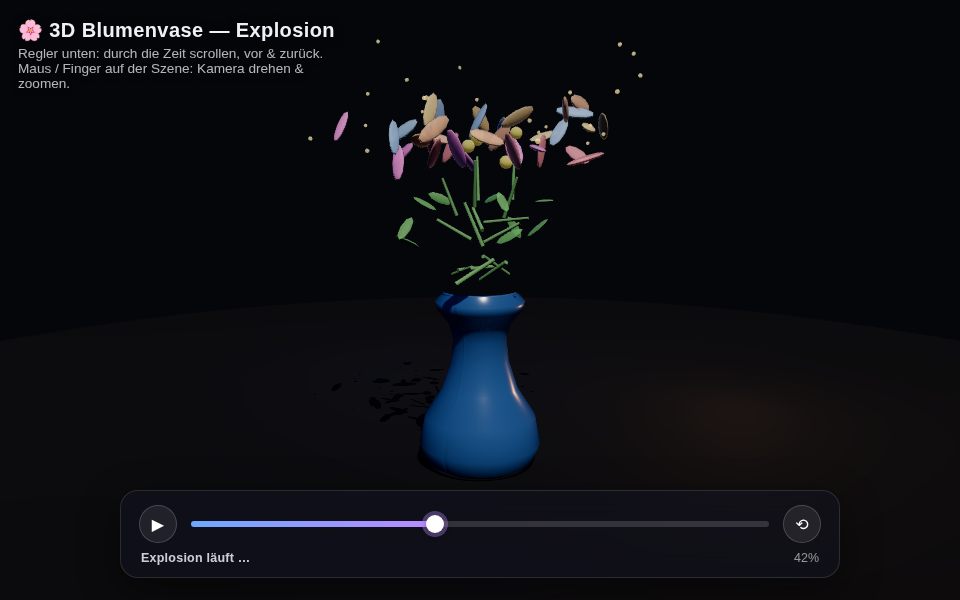
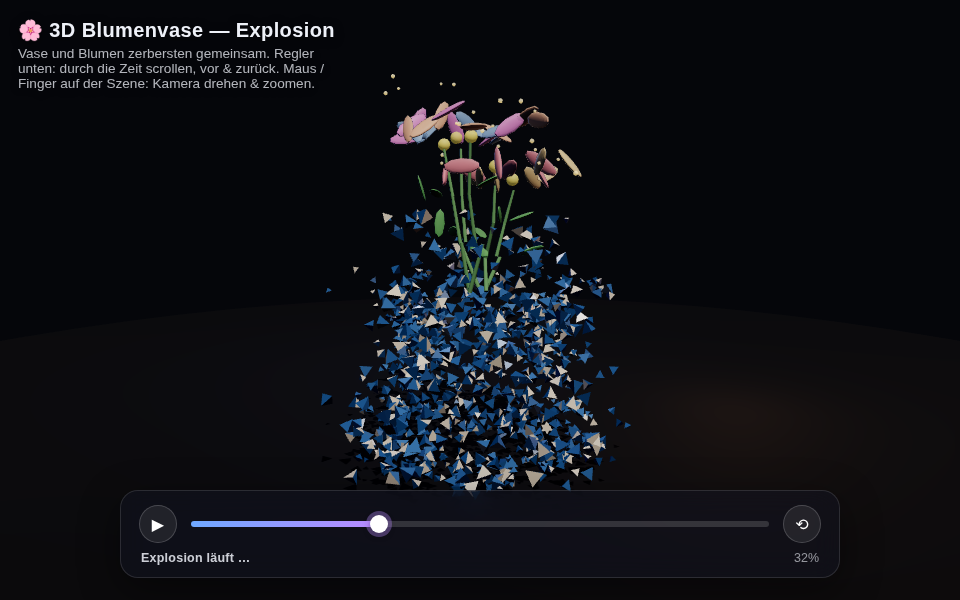
flower-vase: shatter the vase itself into ~1000 shards
The vase now explodes along with its content instead of staying
intact. It's rebuilt as an InstancedMesh of ~1000 tetrahedron shards
sampled across the lathe surface (two-tone: cream inner ceramic /
blue glaze outer faces), each with its own outward explosion
direction, spin and gravity arc driven by the same deterministic
time parameter as the flower fragments. The smooth vase mesh
crossfades into the shard cloud over the first ~8% of the timeline,
so scrubbing back still reassembles a pristine vase. Updated the
landing-page thumbnail to show the vase shattering too.

diff --git a/flower-vase/index.html b/flower-vase/index.html
@@ -98,7 +98,7 @@
 
 <div id="hud">
   <h1>🌸 3D Blumenvase — Explosion</h1>
-  <p>Regler unten: durch die Zeit scrollen, vor &amp; zurück. Maus / Finger auf der Szene: Kamera drehen &amp; zoomen.</p>
+  <p>Vase und Blumen zerbersten gemeinsam. Regler unten: durch die Zeit scrollen, vor &amp; zurück. Maus / Finger auf der Szene: Kamera drehen &amp; zoomen.</p>
 </div>
 
 <div id="loading">Lade Szene …</div>
@@ -225,6 +225,7 @@ const vaseMat = new THREE.MeshPhysicalMaterial({
   clearcoat: 0.8,
   clearcoatRoughness: 0.15,
   reflectivity: 0.5,
+  transparent: true,
 });
 const vase = new THREE.Mesh(vaseGeo, vaseMat);
 vase.castShadow = true;
@@ -232,16 +233,119 @@ vase.receiveShadow = true;
 scene.add(vase);
 
 // water surface just below the rim
-const water = new THREE.Mesh(
-  new THREE.CircleGeometry(0.24, 32),
-  new THREE.MeshPhysicalMaterial({
-    color: 0x1c3a55, roughness: 0.05, metalness: 0,
-    transmission: 0.85, thickness: 0.3, transparent: true, opacity: 0.9,
-  })
-);
+const waterMat = new THREE.MeshPhysicalMaterial({
+  color: 0x1c3a55, roughness: 0.05, metalness: 0,
+  transmission: 0.85, thickness: 0.3, transparent: true, opacity: 0.9,
+});
+const water = new THREE.Mesh(new THREE.CircleGeometry(0.24, 32), waterMat);
 water.rotation.x = -Math.PI / 2;
 water.position.y = VASE_TOP_Y - 0.12;
 scene.add(water);
+
+// ---------- vase shard system (the vase itself shatters into ~1000 pieces) ----------
+const SHARD_COUNT = 1000;
+
+const segLengths = [];
+let totalProfileLen = 0;
+for (let i = 0; i < profile.length - 1; i++) {
+  const l = profile[i].distanceTo(profile[i + 1]);
+  segLengths.push(l);
+  totalProfileLen += l;
+}
+function pickProfileSegment() {
+  let r = Math.random() * totalProfileLen;
+  for (let i = 0; i < segLengths.length; i++) {
+    if (r < segLengths[i]) return i;
+    r -= segLengths[i];
+  }
+  return segLengths.length - 1;
+}
+
+function vaseSurfaceSample() {
+  const k = pickProfileSegment();
+  const p0 = profile[k], p1 = profile[k + 1];
+  const v = Math.random();
+  const radius = lerp(p0.x, p1.x, v);
+  const y = lerp(p0.y, p1.y, v);
+  const theta = Math.random() * Math.PI * 2;
+
+  const dx = p1.x - p0.x, dy = p1.y - p0.y;
+  let nx = dy, ny = -dx;
+  const nLen = Math.hypot(nx, ny) || 1;
+  nx /= nLen; ny /= nLen;
+  const isFlatBottom = Math.abs(dy) < 1e-5 && p0.y < 0.01;
+  if (isFlatBottom) { nx = 0; ny = -1; }
+  else if (nx < 0) { nx = -nx; ny = -ny; }
+
+  const pos = new THREE.Vector3(radius * Math.cos(theta), y, radius * Math.sin(theta));
+  const normal = new THREE.Vector3(nx * Math.cos(theta), ny, nx * Math.sin(theta)).normalize();
+  const tangent = new THREE.Vector3(-Math.sin(theta), 0, Math.cos(theta));
+  return { pos, normal, tangent };
+}
+
+const shardGeo = new THREE.TetrahedronGeometry(0.045, 0).toNonIndexed();
+{
+  const colors = [];
+  const faceColors = [
+    new THREE.Color(0xf3e6cf), // inner ceramic
+    new THREE.Color(0x3a6ea8),
+    new THREE.Color(0x477fbd),
+    new THREE.Color(0x2e5a8c),
+  ];
+  const posAttr = shardGeo.getAttribute("position");
+  const faceCount = posAttr.count / 3;
+  for (let f = 0; f < faceCount; f++) {
+    const c = faceColors[f % faceColors.length];
+    for (let v = 0; v < 3; v++) colors.push(c.r, c.g, c.b);
+  }
+  shardGeo.setAttribute("color", new THREE.Float32BufferAttribute(colors, 3));
+}
+
+const shardMat = new THREE.MeshStandardMaterial({
+  vertexColors: true, roughness: 0.3, metalness: 0.05, transparent: true, opacity: 0,
+});
+const shardMesh = new THREE.InstancedMesh(shardGeo, shardMat, SHARD_COUNT);
+shardMesh.castShadow = true;
+shardMesh.instanceMatrix.setUsage(THREE.DynamicDrawUsage);
+shardMesh.frustumCulled = false;
+shardMesh.instanceColor = new THREE.InstancedBufferAttribute(new Float32Array(SHARD_COUNT * 3), 3);
+scene.add(shardMesh);
+
+const shards = [];
+const shardTmpColor = new THREE.Color();
+for (let i = 0; i < SHARD_COUNT; i++) {
+  const { pos, normal, tangent } = vaseSurfaceSample();
+  const bitangent = normal.clone().cross(tangent).normalize();
+  const basis = new THREE.Matrix4().makeBasis(tangent, bitangent, normal);
+  const baseQuat = new THREE.Quaternion().setFromRotationMatrix(basis);
+
+  const dir = normal.clone();
+  if (dir.y < -0.4) {
+    dir.set(pos.x, 0, pos.z);
+    if (dir.lengthSq() < 1e-6) dir.set(rand(-1, 1), 0, rand(-1, 1));
+    dir.normalize().multiplyScalar(0.8);
+    dir.y = rand(0.2, 0.5);
+  } else {
+    dir.multiplyScalar(0.75).add(new THREE.Vector3(0, rand(0.3, 0.8), 0));
+  }
+  dir.normalize();
+
+  shards.push({
+    basePos: pos,
+    baseQuat,
+    dir,
+    dist: rand(1.6, 4.2),
+    axis: new THREE.Vector3(rand(-1, 1), rand(-1, 1), rand(-1, 1)).normalize(),
+    spin: rand(2, 7) * (Math.random() < 0.5 ? -1 : 1),
+    delay: rand(0, 0.1),
+    gravity: rand(1.0, 2.4),
+    scale: rand(0.6, 1.8),
+  });
+
+  shardTmpColor.setScalar(rand(0.82, 1.18));
+  shardMesh.setColorAt(i, shardTmpColor);
+}
+shardMesh.instanceColor.needsUpdate = true;
 
 // ---------- fragments registry ----------
 // each fragment: { mesh, basePos, baseQuat, baseScale, dir(Vector3), dist, axis(Vector3), spin, delay, opacityFade }
@@ -424,7 +528,7 @@ function setT(newT, fromSlider) {
   const pct = Math.round(t * 100);
   pctLabel.textContent = pct + "%";
   slider.style.setProperty("--fill", pct + "%");
-  stateLabel.textContent = t < 0.02 ? "Intakt" : t > 0.97 ? "Vollständig zersplittert" : "Explosion läuft …";
+  stateLabel.textContent = t < 0.02 ? "Intakt" : t > 0.97 ? "Vase & Inhalt vollständig zersplittert" : "Explosion läuft …";
 }
 
 slider.addEventListener("input", () => {
@@ -449,6 +553,10 @@ setT(0);
 // ---------- animate ----------
 const tmpV = new THREE.Vector3();
 const tmpQ = new THREE.Quaternion();
+const tmpPos = new THREE.Vector3();
+const tmpScale = new THREE.Vector3();
+const tmpQuat2 = new THREE.Quaternion();
+const tmpMatrix = new THREE.Matrix4();
 const clock = new THREE.Clock();
 
 function updateFragments() {
@@ -478,9 +586,36 @@ function updateFragments() {
   shockwave.scale.setScalar(0.4 + eb * 5.5);
   shockMat.opacity = (1 - eb) * smoothstep(clamp(t * 12, 0, 1)) * 0.6;
 
-  // vase / water settle slightly (subtle shake right at the start of explosion)
+  // vase shakes right before it shatters, then crossfades into the shard cloud
   const shake = (1 - smoothstep(clamp(t / 0.12, 0, 1))) * smoothstep(clamp(t * 30, 0, 1));
   vase.position.y = Math.sin(t * 400) * 0.004 * shake;
+
+  const vaseBurst = smoothstep(clamp(t / 0.08, 0, 1));
+  vaseMat.opacity = 1 - vaseBurst;
+  vase.visible = vaseBurst < 0.999;
+  waterMat.opacity = 0.9 * (1 - vaseBurst);
+  water.visible = vaseBurst < 0.999;
+  shardMat.opacity = vaseBurst;
+  shardMesh.visible = vaseBurst > 0.001;
+
+  for (let i = 0; i < shards.length; i++) {
+    const sh = shards[i];
+    const localT = clamp((t - sh.delay) / Math.max(0.0001, 1 - sh.delay), 0, 1);
+    const eff = smoothstep(localT);
+
+    tmpV.copy(sh.dir).multiplyScalar(sh.dist * eff);
+    tmpV.y -= sh.gravity * eff * eff * 0.6;
+    tmpPos.copy(sh.basePos).add(tmpV);
+
+    tmpQ.setFromAxisAngle(sh.axis, sh.spin * eff * Math.PI);
+    tmpQuat2.copy(sh.baseQuat).multiply(tmpQ);
+
+    tmpScale.setScalar(sh.scale * (1 + Math.sin(eff * Math.PI) * 0.15));
+
+    tmpMatrix.compose(tmpPos, tmpQuat2, tmpScale);
+    shardMesh.setMatrixAt(i, tmpMatrix);
+  }
+  shardMesh.instanceMatrix.needsUpdate = true;
 }
 
 function animate() {